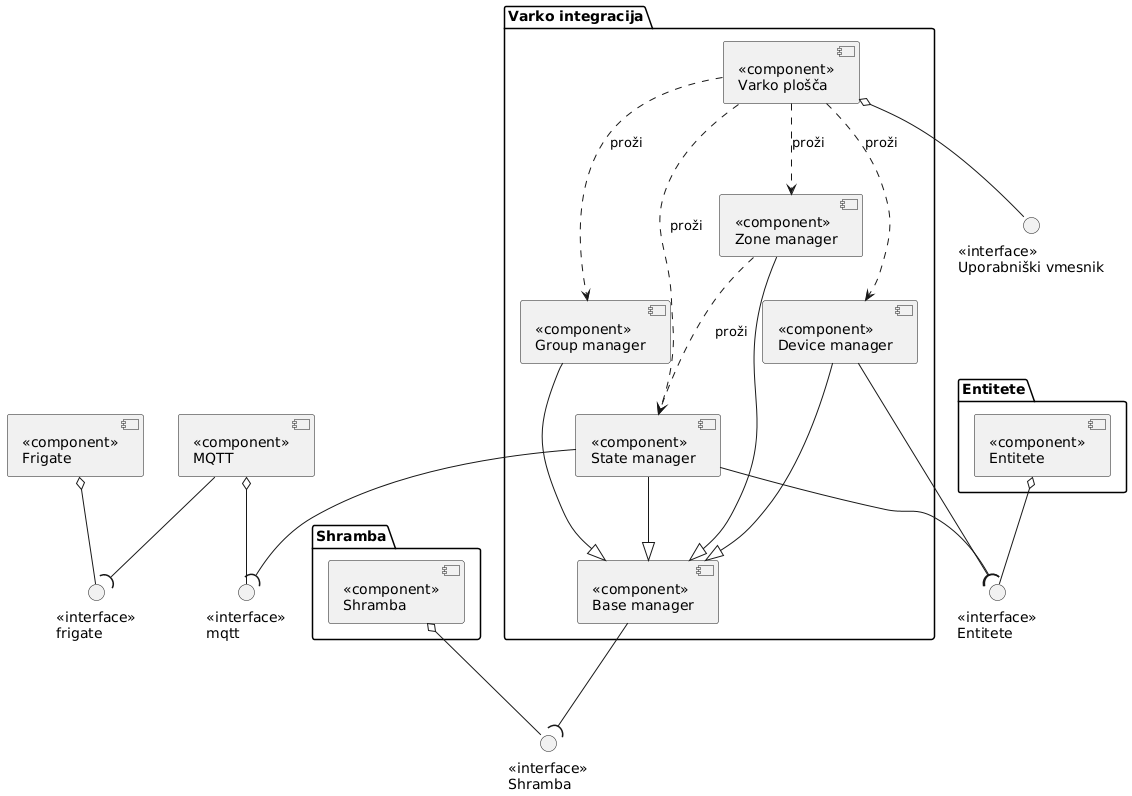
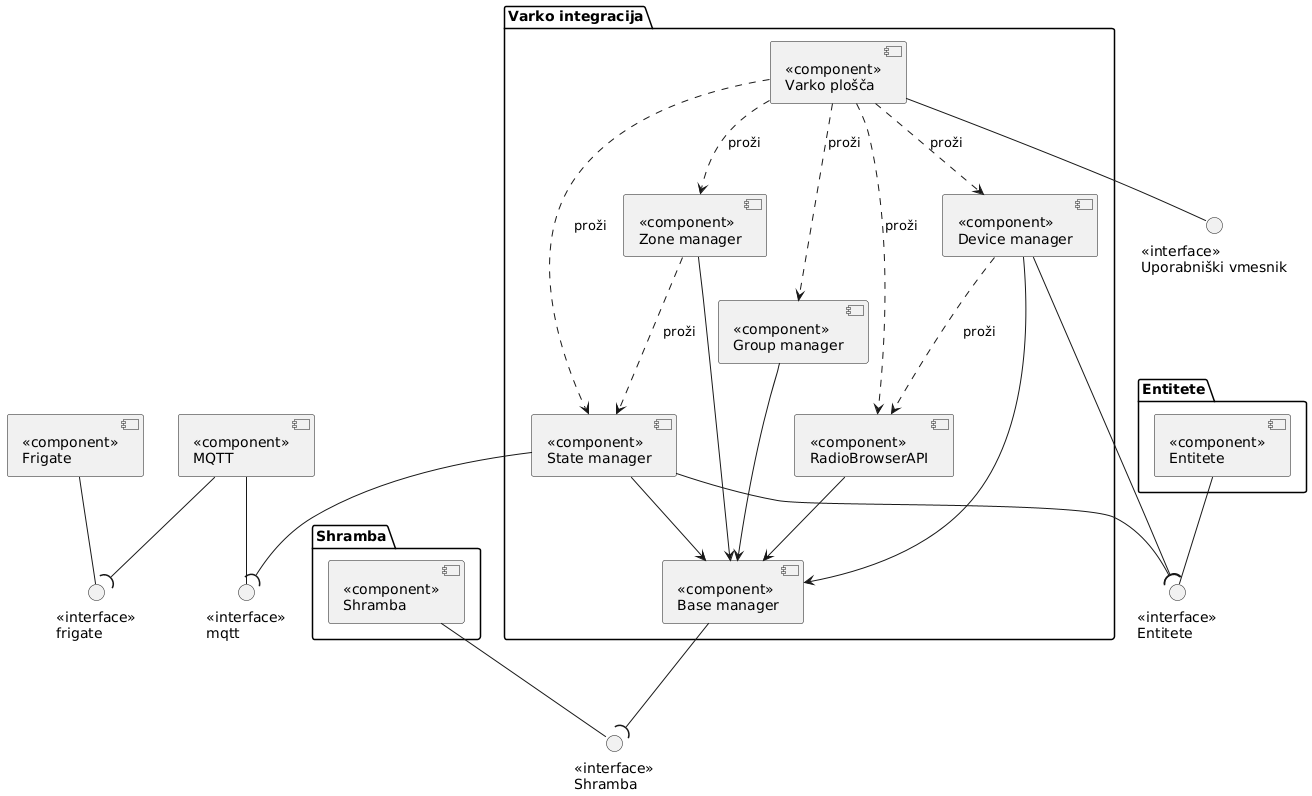
Popravki, dodan diagram stanj

diff --git a/docs/04_Koncna_izdaja_celovito_koncno_porocilo.md b/docs/04_Koncna_izdaja_celovito_koncno_porocilo.md
@@ -335,8 +335,6 @@ Spodnji diagram primerov uprabe grafično prikazuje glavne funkcionalnosti naše
   <img src="gradivo/img/Osnutek%20sistema/diagram_primerov_uporabe.png" alt="Opis sistema" width="1000">
 </p>
 
-[//]: # (TODO: POPRAVI INCLUDES PUŠČICE)
-
 ### 3.3.2 Specifikacije primerov uporabe
 
 Sledeče funkcionalne zahteve opisujejo konkretne funkcionalnosti, ki jih mora sistem podpirati za uspešno delovanje in izpolnjevanje potreb uporabnikov. Razvrščene so po padajoči prioriteti, od ‘Must have’, ki označuje ključne in nujno potrebne funkcionalnosti, do ‘Would have’, ki se nanaša na funkcionalnosti, ki za trenutno verzijo rešitve niso ključne in bodo realizirane v prihodnosti.
@@ -1328,8 +1326,6 @@ Nekaj težav se je pojavilo tudi zaradi neintuitivnega življenjskega cikla inte
 
 ### Namestitveni diagram
 
-[//]: # (TODO: HTTPS NAMESTO HTTP/S (ODSTRANI “/”))
-
 Na spodnji sliki je predstavljen namestitveni diagram sistema.
 
 Glavni koordinator izvajanja sistema je `Docker Compose`, ki se sam izvaja v okolju `Docker Host`. `Docker Compose` koordinira posamezne vsebnike, vsak predstavlja svojo funkcijo - `Frigate` kot sistem za prepoznavo ljudi na video posnetku v primeru zaznave subjekta pošlje sporočilo v protokolu MQTT, ki se preko `MQTT posrednika` prepošlje sistemu `Home Assistant`, ki pa vsebuje integracijo Varko. Tako `Frigate` kot `MQTT posrednik` potrebujeta konfiguracijsko datoteko. `Brskalnik` in `Telefon` nista ovita v posebno okolje saj delujeta na večini operacijskih sistemov; oba komunicirata z glavnino sistema preko protokola HTTP(S). `Telefon` se uporablja za zaznavanje lokacije uporabnika.
@@ -1358,8 +1354,6 @@ Paket `VarkoPlošča` predstavlja naš lasten uporabniški vmesnik, ki komunicir
 ### Komponentni diagram
 
 [//]: # (TODO: VKLJUČI LIGHT, MEDIA PLAYER IN NOTIFICATIONE)
-[//]: # (TODO: ODSTRANI AGREGACIJE PRI INTERFACIH)
-[//]: # (TODO: ODSTRANI EXTEND PUŠČICE MED MANAGERJI)
 
 Na spodnji sliki je predstavljen komponentni diagram sistema.
 
@@ -1378,7 +1372,12 @@ Spodnji diagram prikazuje diagram prehodov stanj, kjer so označena tri glavna (
 </p>
 
 ### Diagram zaporedja
-[//]: # (TODO: DODAJ DIAGRAM ZAPOREDJA)
+
+Spodnji diagram prikazuje splošen diagram zaporedja delovanja integracije. Sledeči akterji ostajajo enaki kot v zgornjih diagramih. Zgornji del diagrama prikazuje prehod in delovanje v stanje READY, spodaj še za stanje READY in na koncu prehod v osnovno stanje IDLE. Pomen stanj je opisan v diagramu prehodov stanj.
+
+<p align="center">
+  <img src="gradivo/img/Izvedljiv sistem/diagram_zaporedja.png" alt="Diagram zaporedja">
+</p>
 
 ### Razredni diagram
 [//]: # (TODO: VKLJUČI NAČRTOVALSKE VZORCE IN JIH OPIŠI - VZORCE OBKROŽI IN NAPIŠI IME)
